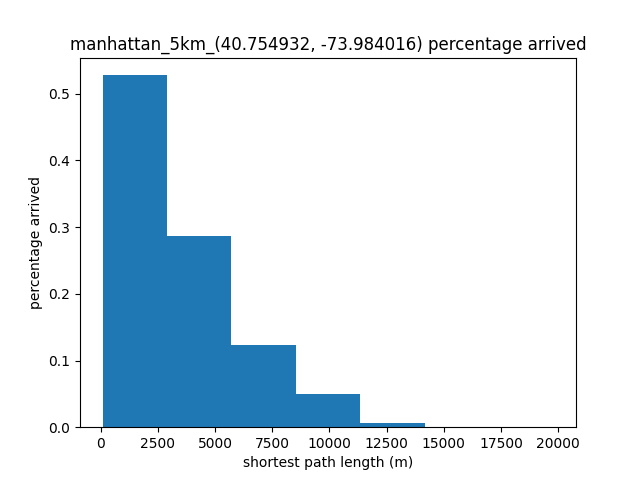
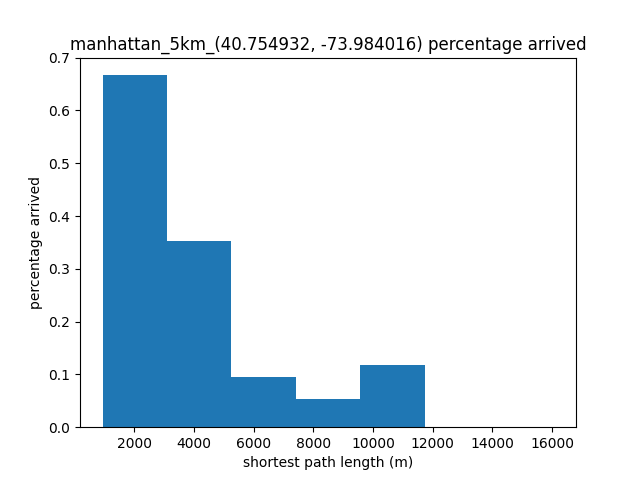
added outdegree and stuff like that to make the node function not necessary anymore

diff --git a/dijkstra_with_priority_que.py b/dijkstra_with_priority_que.py
@@ -31,11 +31,13 @@ def dijkstra_with_priority_queue(id1, graph):
     current_node = id1
     
     for _ in range(len(graph.nodes())): # we will try every node for the distance
-        for neighbor_node in graph.neighbors(current_node): # calculate from every neighbour
-          new_length = (nf.get_edge_length(current_node, neighbor_node, graph) +  distances[current_node])
+        
+        for _ , neighbor_node, edge_length in graph.out_edges(current_node, data = 'length'): # calculate from every neighbour
+          
+          new_length = edge_length +  distances[current_node]
           if distances[neighbor_node] > new_length:
             distances[neighbor_node] = new_length
-            distance_queue.put((new_length,neighbor_node))        
+            distance_queue.put((new_length, neighbor_node))        
       
         visited_nodes.add(current_node)
         unvisited_nodes.remove(current_node)
@@ -43,7 +45,6 @@ def dijkstra_with_priority_queue(id1, graph):
         minimum_distance, current_node = distance_queue.get() # auto removes element 
         while current_node in visited_nodes: # very possible since we add element every time
           minimum_distance, current_node = distance_queue.get() # get new element every time
-
 
         if minimum_distance  == inf:
             #print('some roads have no connection')
@@ -96,11 +97,12 @@ def dijkstra_with_priority_queue_to_node(id1, id2, graph):
     current_node = id1
     
     while id2 not in visited_nodes: # we will try every node for the distance
-        for neighbor_node in graph.neighbors(current_node): # calculate from every neighbour
-          new_length = (nf.get_edge_length(current_node, neighbor_node, graph) +  distances[current_node])
+        for _ , neighbor_node, edge_length in graph.out_edges(current_node, data = 'length'): # calculate from every neighbour
+          
+          new_length = edge_length +  distances[current_node]
           if distances[neighbor_node] > new_length:
             distances[neighbor_node] = new_length
-            distance_queue.put((new_length,neighbor_node))        
+            distance_queue.put((new_length, neighbor_node))           
       
         visited_nodes.add(current_node)
         unvisited_nodes.remove(current_node)

diff --git a/greedy_then_a_star.py b/greedy_then_a_star.py
@@ -3,12 +3,13 @@ import coordinate_functions as cf
 import node_functions as nf
 import osmnx as ox
 import networkx as nx
+import a_star
 
 """
-does normal greedy forwarding it stops when a cycle is discovered or no neighbors are found (which is only possible in a directed graph)
+does normal greedy forwarding till a node is already in visited then do a_star
 """
 
-def greedy_forwarding(id1, id2, graph): # id1 is start node id2 is go to node
+def greedy_forwarding_then_a_star(id1, id2, graph): # id1 is start node id2 is go to node
   inf = np.inf
   total_nodes = graph.nodes()
 
@@ -21,7 +22,7 @@ def greedy_forwarding(id1, id2, graph): # id1 is start node id2 is go to node
   while (current_node != id2):
     
     min_distance = inf
-    for _ , neighbor_node in graph.out_edges(current_node): # calculate from every out
+    for _, neighbor_node in graph.out_edges(current_node):
       if neighbor_node != current_node: # eliminate cycles
         new_distance = cf.distance(id2, neighbor_node, graph) # end node is id2 so try to get closer to this end node
         if new_distance < min_distance:
@@ -31,8 +32,12 @@ def greedy_forwarding(id1, id2, graph): # id1 is start node id2 is go to node
     if min_distance == inf:
       return inf 
     
-    if node_with_min_distance in visited: # can't be together with the above if else could be referenced before assignment
-      return inf
+    if node_with_min_distance in visited: # if empty next sequence then already stop here else a star won't even find a path
+      """
+      if the node was already visited or the node that will be visited does not seem to have any neighbors
+      """
+      distance_travelled += a_star.A_star(current_node, id2, graph)
+      return distance_travelled
 
     edge_length = nf.get_edge_length(current_node, node_with_min_distance, graph)
 

diff --git a/dijkstra.py b/dijkstra.py
@@ -26,11 +26,11 @@ def dijkstra(id1, graph):
     current_node = id1
     
     for _ in range(len(graph.nodes())): # we will try every node for the distance
-        for neighbor_node in graph.neighbors(current_node): # calculate from every neighbour
-
-          new_edge_length = nf.get_edge_length(current_node, neighbor_node, graph) + distances[current_node]
-          if distances[neighbor_node] > new_edge_length:
-            distances[neighbor_node] = new_edge_length
+        for _ , neighbor_node, edge_length in graph.out_edges(current_node, data = 'length'): # calculate from every neighbour
+          
+          new_length = edge_length +  distances[current_node]
+          if distances[neighbor_node] > new_length:
+            distances[neighbor_node] = new_length
             
         
         visited_nodes.add(current_node)
@@ -69,11 +69,12 @@ def dijkstra_to_node(id1, id2, graph):
     
     while id2 not in visited_nodes: # we will try every node for the distance
         
-      for neighbor_node in graph.neighbors(current_node): # calculate from every neighbour
-
-        new_edge_length = nf.get_edge_length(current_node, neighbor_node, graph) + distances[current_node]
-        if distances[neighbor_node] > new_edge_length:
-          distances[neighbor_node] = new_edge_length
+      for _ , neighbor_node, edge_length in graph.out_edges(current_node, data = 'length'): # calculate from every neighbour
+          
+          new_length = edge_length +  distances[current_node]
+          if distances[neighbor_node] > new_length:
+            distances[neighbor_node] = new_length
+              
           
       visited_nodes.add(current_node)
 

diff --git a/a_star.py b/a_star.py
@@ -81,11 +81,9 @@ def A_star(id1, id2, graph): # id1 is start node id2 is go to node
 
         open_set.remove(current_node)
 
-        for neighbor_node in graph.neighbors(current_node): 
-            
-            distance = nf.get_edge_length(neighbor_node, current_node, graph)
-        
-            tentative_g_score = g_score[current_node] + distance
+        for _,neighbor_node, edge_length in graph.out_edges(current_node, data = 'length'): #first one is the current node the last argument makes sure we get the length
+           
+            tentative_g_score = g_score[current_node] + edge_length # sometimes multiple streets will connect the neighbor but this if statement below automatically fixes this
 
             if tentative_g_score < g_score[neighbor_node]:
                 came_from[neighbor_node] = current_node
@@ -93,7 +91,7 @@ def A_star(id1, id2, graph): # id1 is start node id2 is go to node
                 f_score[neighbor_node] = g_score[neighbor_node] + cf.euclid_distance(id1, id2, graph)
 
                 open_set.add(neighbor_node) # this will check if already in it so just add it
-
+    print("hier")
     return inf
 
 # print(A_star(9121386338,1692433918,graph_basic))

diff --git a/compare_speed.py b/compare_speed.py
@@ -53,8 +53,8 @@ def speed_comparator(name, number_of_routes): # generates the data for greedy fo
     d = a_star.A_star(node_list[list_indices_start[i]], node_list[list_indices_end[i]], graph_basic)
     a_star_speed += time.time() - start
 
-    assert abs(c - b) < 10**-2 and abs(c - d) < 10**-2, 'path lengths are not the same' # networkx treats one way streets as one way
-  
+    assert abs(b-c) < 10**-2 and abs(d-c) < 10**-2 and abs(a-c) < 10**-2, f'{c} dwpq and {b} normal dijkstra {d} astar {a} netowrkx'
+    
 
   
   plt.bar(['networkx dijkstra', 'dijkstra', 'dwpq', 'A*'],np.array([dijkstra_networkx_speed, dijkstra_speed, dwpq_speed, a_star_speed])/number_of_routes)
@@ -63,4 +63,4 @@ def speed_comparator(name, number_of_routes): # generates the data for greedy fo
   plt.ylabel('execution time per path (s)')
   plt.savefig(f'./speed_comparison/{name}_execution_time_per_path.png')
 
-speed_comparator('brugge_5km_(51.209348, 3.224700)', 10**2)
+speed_comparator('brugge_5km_(51.209348, 3.224700)', 100)

diff --git a/generate_data.py b/generate_data.py
@@ -5,6 +5,7 @@ import networkx as nx
 import gc
 import greedy_forwarding_route as gf
 import greedy_forwarding_with_edgelength as gfwe
+import greedy_then_a_star as gtas
 
 """
 generates stretch and arrival percentage histograms for the desired function
@@ -87,4 +88,9 @@ name_list = ['new_dehli_5km_(28.644800, 77.216721)', 'nairobi_5km_(-1.28333, 36.
 
 
 for name in name_list:
-  data_generator(name, 10**3, gf.greedy_forwarding,'normal_greedy') # 1000 paths for every map
+  data_generator(name, 10**2, gtas.greedy_forwarding_then_a_star,'greedy_then_a_star') # 1000 paths for every map
+  
+  data_generator(name, 10**2, gfwe.greedy_forwarding_with_edge_length,'greedy_with_edge_length')
+  
+  data_generator(name, 10**2, gf.greedy_forwarding,'normal_greedy')
+  print(name)

diff --git a/greedy_forwarding_with_edgelength.py b/greedy_forwarding_with_edgelength.py
@@ -22,9 +22,10 @@ def greedy_forwarding_with_edge_length(id1, id2, graph): # id1 is start node id2
     
     min_distance = inf
 
-    for neighbor_node in graph.neighbors(current_node):
+    for _ , neighbor_node, edge_length in graph.out_edges(current_node, data = 'length'): # calculate from every neighbour
+
       if neighbor_node != current_node: # eliminate cycles
-        new_distance = cf.distance(id2, neighbor_node, graph) + nf.get_edge_length(current_node, neighbor_node, graph) # end node is id2 so try to get closer to this end node
+        new_distance = cf.distance(id2, neighbor_node, graph) + edge_length # end node is id2 so try to get closer to this end node
         
         if new_distance < min_distance:
           node_with_min_distance = neighbor_node

diff --git a/node_functions.py b/node_functions.py
@@ -1,5 +1,7 @@
 import numpy as np
 
+inf = np.inf
+
 def get_edge_length(id1, id2, graph):
   """
   function that calculates the shortest edge length ignoring if it is a one way street or not
@@ -14,8 +16,10 @@ def get_edge_length(id1, id2, graph):
   except KeyError:
     pass # no actual path seems to exist 
   
-  edge_length = np.inf
+  edge_length = inf
   for edge in edge_val: # if two roads or more roads do connect one chose the shortest one of both
     if edge_length > edge.get('length'):
       edge_length = edge.get('length')
+  if edge_length == inf:
+    print('das toch geen buur')
   return edge_length
